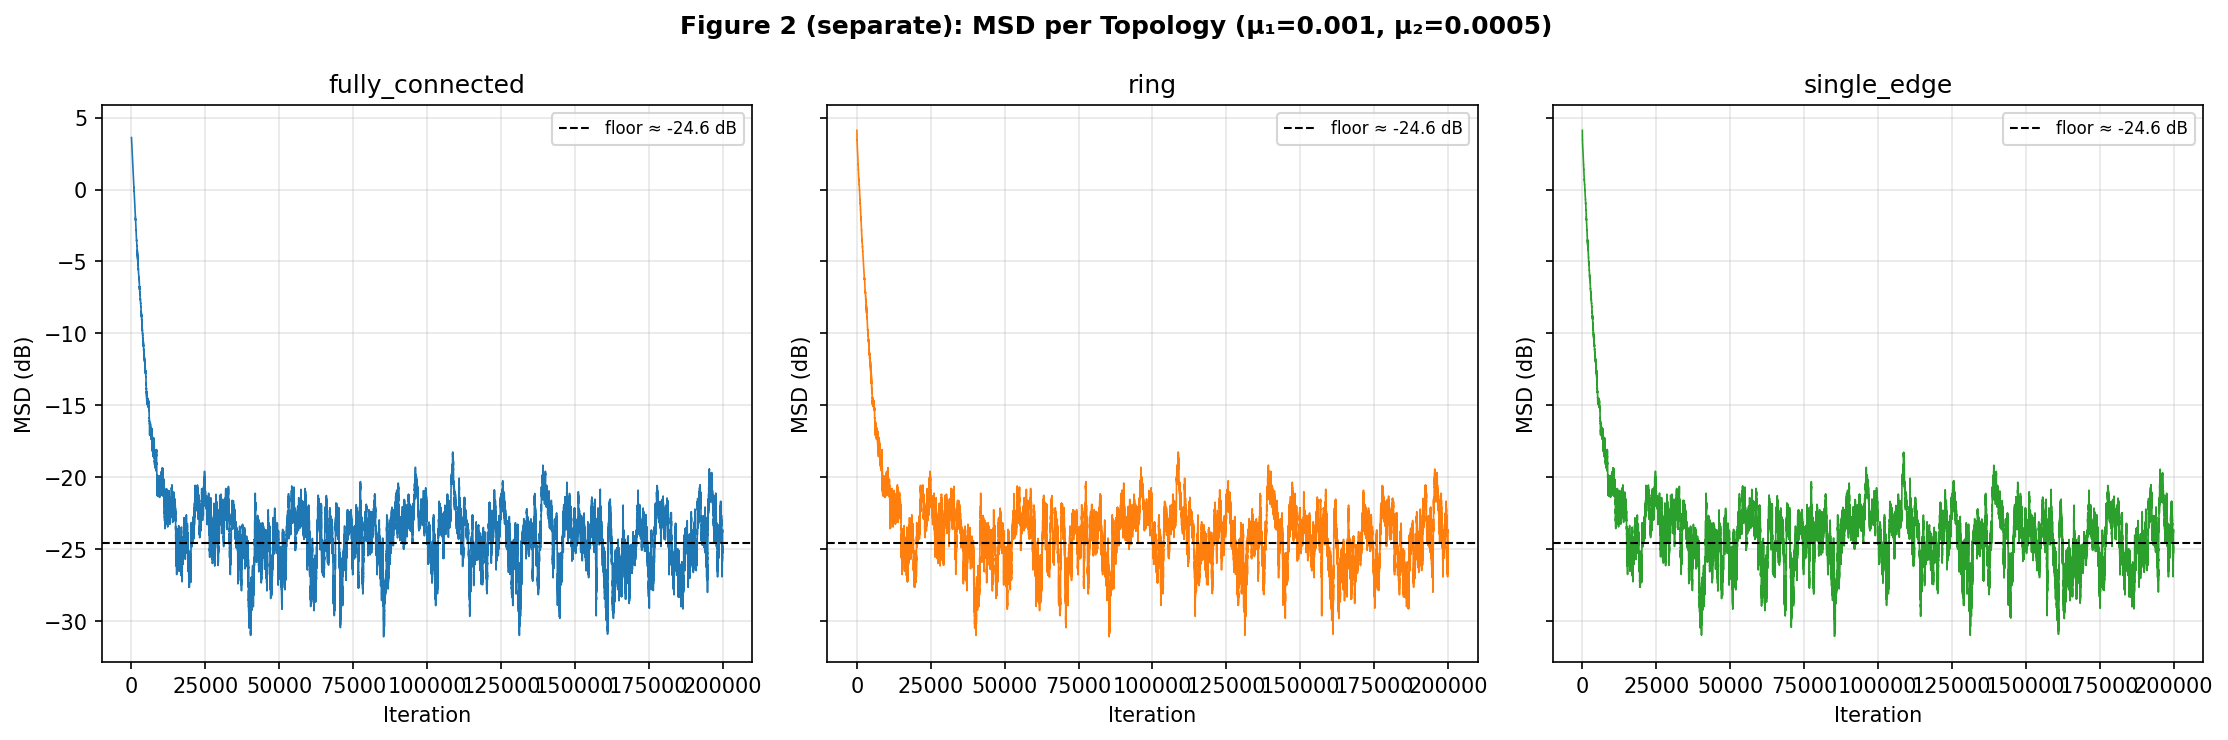
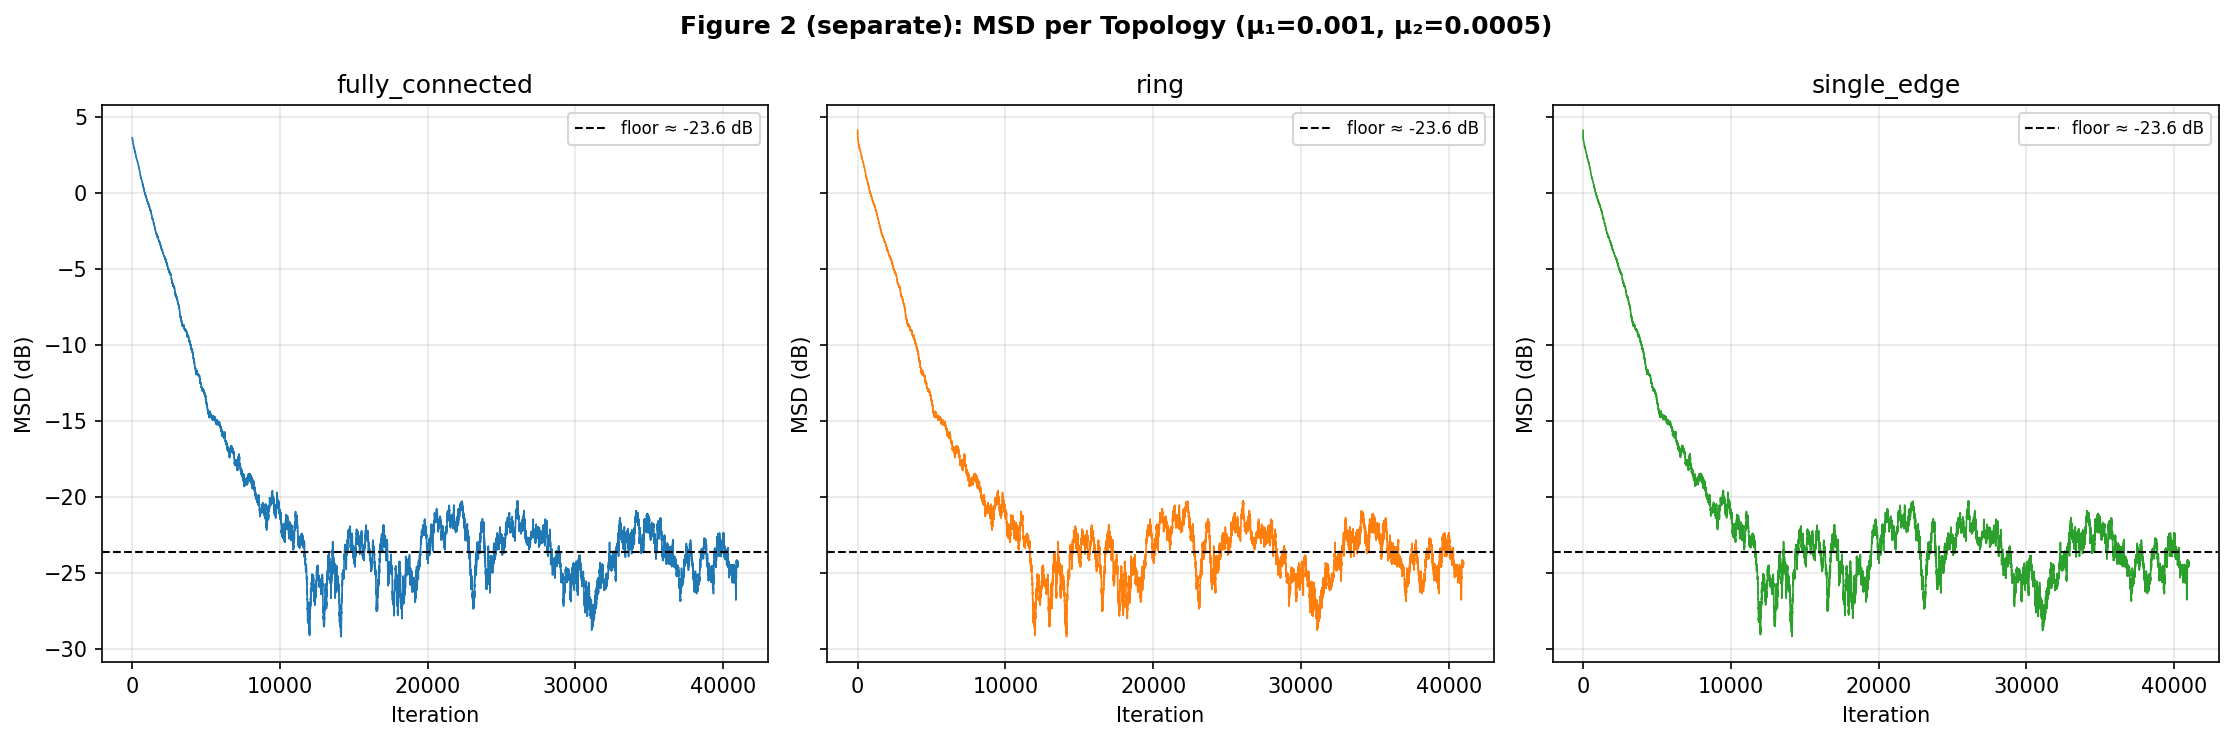
fixed figure 1

diff --git a/experiments/topology_test.py b/experiments/topology_test.py
@@ -3,6 +3,15 @@
 # Figure 2: MSD convergence for fully_connected vs ring vs single_edge.
 # Fixed step sizes (MU1, MU2 from config). One curve per topology.
 #
+# FINDING: in this regime the three curves coincide — the steady-state MSD floor
+# AND the convergence rate are topology-invariant. This is the expected result,
+# not a bug: (i) all three within-team graphs are connected, so they reach the
+# same full-cooperation steady state (identical noise averaging → identical floor);
+# (ii) the gradient timescale 1/μ (~10^3 iters) dwarfs the graph-mixing timescale
+# (~few iters), so convergence rate is set by μ, not by the graph. This directly
+# validates the paper's central claim: a SINGLE cross-team edge performs as well as
+# full connectivity. The figure is framed to make that invariance the result.
+#
 # Run: python -m experiments.topology_test  (from project root)
 
 import os, sys
@@ -16,12 +25,13 @@ import matplotlib.pyplot as plt
 from config import TOPOLOGIES, MU1, MU2, K1, K2, Z_STAR, ZK_STAR, R_U
 from network import build_within_team_matrix, build_cross_team_matrices, sanity_check
 from algorithm import run_cd
-from metrics import compute_msd, to_db
+from metrics import compute_msd, compute_within_team_disagreement, to_db
 from game import QuadraticGame
 
 
 def topology_test():
     results = {}
+    disagree = {}   # within-team disagreement per topology (linear scale)
 
     for topology in TOPOLOGIES:
         A1   = build_within_team_matrix(topology, K1)
@@ -40,24 +50,63 @@ def topology_test():
                          label=topology)
         msd_db = to_db(compute_msd(history, Z_STAR))
         results[topology] = msd_db
+        disagree[topology] = compute_within_team_disagreement(history)
 
         # Save raw data for external inspection
         os.makedirs(DATA, exist_ok=True)
         np.save(os.path.join(DATA, f"topology_{topology}_msd.npy"), msd_db)
         tail = msd_db[int(0.8 * len(msd_db)):]
         print(f"  steady-state floor: mean={tail.mean():.2f} dB  std={tail.std():.2f} dB")
+        print(f"  within-team disagreement @ iter 0/1/4 = "
+              f"{disagree[topology][0]:.4f} / {disagree[topology][1]:.4f} / {disagree[topology][4]:.4f}")
 
-    # --- Overlay plot (Figure 2a) ---
+    # Quantify the (in)variance across topologies so the result is defensible.
+    stack = np.vstack([results[t] for t in TOPOLOGIES])          # (3, T)
+    floors = {t: results[t][int(0.8 * len(results[t])):].mean() for t in TOPOLOGIES}
+    max_spread = float((stack.max(axis=0) - stack.min(axis=0)).max())
+    print("\n=== Topology comparison ===")
+    for t in TOPOLOGIES:
+        print(f"  {t:<16} steady-state floor = {floors[t]:6.2f} dB")
+    print(f"  max spread between topologies over all iterations = {max_spread:.2f} dB "
+          f"(noise-level → curves coincide)")
+
+    # --- Figure 2: 3 panels telling the complete, honest story ---
+    #   (a) MSD floor is topology-invariant   (b) MSD rate is topology-invariant
+    #   (c) within-team disagreement IS topology-dependent (the visible effect)
     os.makedirs(FIGS, exist_ok=True)
-    fig, ax = plt.subplots(figsize=(8, 5))
     colors = {"fully_connected": "tab:blue", "ring": "tab:orange", "single_edge": "tab:green"}
+    zoom_msd = 12000   # iterations for the MSD transient panel
+    zoom_dis = 12      # iterations for the disagreement transient panel
+
+    fig, (ax_full, ax_zoom, ax_dis) = plt.subplots(1, 3, figsize=(18, 5))
+    fig.suptitle("Figure 2: MSD-to-Nash is topology-invariant (a,b), but within-team "
+                 f"consensus speed is not (c)   —   μ₁={MU1}, μ₂={MU2}", fontweight="bold")
+
+    # (a) full run — MSD floors overlap; annotate the common floor
     for topology, msd_db in results.items():
-        ax.plot(msd_db, label=topology, color=colors[topology])
-    ax.set_xlabel("Iteration")
-    ax.set_ylabel("MSD (dB)")
-    ax.set_title(f"Figure 2: MSD vs Topology (μ₁={MU1}, μ₂={MU2})")
-    ax.legend()
-    ax.grid(True, alpha=0.3)
+        ax_full.plot(msd_db, label=topology, color=colors[topology], linewidth=0.9)
+    common_floor = float(np.mean(list(floors.values())))
+    ax_full.axhline(common_floor, color="black", linestyle="--", linewidth=1,
+                    label=f"common floor ≈ {common_floor:.1f} dB")
+    ax_full.set_title(f"(a) MSD full run — floors coincide (spread {max_spread:.2f} dB)")
+    ax_full.set_xlabel("Iteration"); ax_full.set_ylabel("MSD (dB)")
+    ax_full.legend(); ax_full.grid(True, alpha=0.3)
+
+    # (b) MSD transient zoom — convergence rate also coincides
+    for topology, msd_db in results.items():
+        ax_zoom.plot(msd_db[:zoom_msd], label=topology, color=colors[topology], linewidth=1.1)
+    ax_zoom.set_title(f"(b) MSD transient (first {zoom_msd:,}) — rate coincides")
+    ax_zoom.set_xlabel("Iteration"); ax_zoom.set_ylabel("MSD (dB)")
+    ax_zoom.legend(); ax_zoom.grid(True, alpha=0.3)
+
+    # (c) within-team disagreement transient — HERE topology is visible
+    for topology, d in disagree.items():
+        ax_dis.plot(range(zoom_dis), d[:zoom_dis], "o-", label=topology,
+                    color=colors[topology], linewidth=1.3, markersize=4)
+    ax_dis.set_title(f"(c) Within-team disagreement (first {zoom_dis}) — topology IS visible")
+    ax_dis.set_xlabel("Iteration"); ax_dis.set_ylabel(r"mean $\|x_k-\bar{x}\|^2$ (linear)")
+    ax_dis.legend(); ax_dis.grid(True, alpha=0.3)
+
     plt.tight_layout()
     plt.savefig(os.path.join(FIGS, "figure2.png"), dpi=150, bbox_inches="tight")
     plt.close()

diff --git a/metrics.py b/metrics.py
@@ -46,41 +46,54 @@ def compute_msd(history: dict, z_star: np.ndarray) -> np.ndarray:
     return (t1 + t2) / K
 
 
-def compute_fourth_order_moment(history: dict, z_star: np.ndarray) -> np.ndarray:
-    """Proxy for E[‖z̃_i‖⁴] from a single run — paper Theorem 1 eq 21b.
+def compute_within_team_disagreement(history: dict) -> np.ndarray:
+    """All-agent average within-team disagreement: how far each agent is from its
+    OWN team's mean estimate, mean_k ‖x_k − x̄‖² (+ same for y), averaged over agents.
 
-    Returns ‖z̃_i‖⁴ as a time series (shape (T,)).
-    In dB: 10*log10(‖z̃_i‖⁴) = 40*log10(‖z̃_i‖).
+    Unlike MSD-to-Nash (which is topology-invariant here because every connected
+    graph reaches the same steady state), this quantity IS topology-dependent:
+    a denser within-team graph reaches consensus faster and tighter. It is therefore
+    the right observable for *seeing* the effect of topology, especially in the
+    first few iterations (consensus-formation transient). Returns shape (T,), linear.
+    """
+    x = history["x"]                                  # (T, K1, M1)
+    y = history["y"]                                  # (T, K2, M2)
+    x_bar = x.mean(axis=1, keepdims=True)             # team-1 mean per iteration
+    y_bar = y.mean(axis=1, keepdims=True)             # team-2 mean per iteration
+    d1 = ((x - x_bar) ** 2).sum(axis=2).mean(axis=1)  # mean over team-1 agents
+    d2 = ((y - y_bar) ** 2).sum(axis=2).mean(axis=1)  # mean over team-2 agents
+    return (d1 * K1 + d2 * K2) / K                     # all-agent average
+
+
+def compute_fourth_order_moment(history: dict, z_star: np.ndarray) -> np.ndarray:
+    """Raw ‖z̃_i‖⁴ from a single run — proxy for E[‖z̃_i‖⁴] (paper eq 21b).
+
+    NOT smoothed: the paper's curves are visibly noisy (single-realisation stochastic
+    gradients), and that noisiness is part of the result. For a less noisy estimate,
+    average this over several independent seeds (Monte-Carlo) — do NOT moving-average
+    a single run, which distorts the shape. Returns shape (T,) in linear scale.
     """
     x_star = z_star[:M1]
     y_star = z_star[M1:]
     x_err = history["x"] - x_star    # (T, K1, M1)
     y_err = history["y"] - y_star    # (T, K2, M2)
     sq = (x_err ** 2).sum(axis=(1, 2)) + (y_err ** 2).sum(axis=(1, 2))   # (T,)
-    return sq ** 2                    # ‖z̃‖⁴
+    return sq ** 2                    # ‖z̃‖⁴, shape (T,)
 
 
 def compute_first_order_moment(history: dict, z_star: np.ndarray) -> np.ndarray:
-    """Proxy for ‖E[z̃_i]‖ from a single run — paper Theorem 1 eq 21c.
+    """Raw ‖z̃_i‖ from a single run — proxy for E[‖z̃_i‖] (paper eq 21c).
 
-    E[z̃_i] is estimated via cumulative running mean of the error vectors
-    (ergodic estimator).  The running mean cancels zero-mean noise, so this
-    converges to the bias and looks visually smoother than the 4th-order curve.
-
-    Returns ‖running_mean(z̃_i)‖ as a time series (shape (T,)).
+    NOT smoothed (see compute_fourth_order_moment). The instantaneous norm is the
+    paper's "first-order error moment"; it stays noisy at steady state by design.
+    Returns shape (T,) in linear scale.
     """
     x_star = z_star[:M1]
     y_star = z_star[M1:]
-
-    # Flatten all agent errors into one long vector per timestep: (T, K1*M1 + K2*M2)
-    x_err = (history["x"] - x_star).reshape(len(history["x"]), -1)   # (T, K1*M1)
-    y_err = (history["y"] - y_star).reshape(len(history["y"]), -1)   # (T, K2*M2)
-    z_err = np.concatenate([x_err, y_err], axis=1)                   # (T, K1*M1+K2*M2)
-
-    # Cumulative mean: mean_i = (1/(i+1)) * sum_{t=0}^{i} z_err[t]
-    running_mean = np.cumsum(z_err, axis=0) / np.arange(1, len(z_err) + 1)[:, None]
-
-    return np.linalg.norm(running_mean, axis=1)   # ‖E[z̃_i]‖ proxy, shape (T,)
+    x_err = history["x"] - x_star    # (T, K1, M1)
+    y_err = history["y"] - y_star    # (T, K2, M2)
+    sq = (x_err ** 2).sum(axis=(1, 2)) + (y_err ** 2).sum(axis=(1, 2))   # (T,)
+    return np.sqrt(sq)               # ‖z̃_i‖, shape (T,)
 
 
 def compute_error_moment(history: dict, z_star: np.ndarray, order: int) -> np.ndarray:

diff --git a/experiments/reproduce_figure1.py b/experiments/reproduce_figure1.py
@@ -17,8 +17,10 @@ from config import K1, K2, MU_SWEEP, Z_STAR, ZK_STAR, R_U
 from network import build_within_team_matrix, build_cross_team_matrices, sanity_check
 from algorithm import run_cd
 from game import QuadraticGame
-from metrics import (compute_msd_team1, compute_msd_team2, compute_msd_agent,
+from metrics import (compute_msd, compute_msd_team1, compute_msd_team2, compute_msd_agent,
                      compute_fourth_order_moment, compute_first_order_moment, to_db)
+# NOTE: compute_msd_team1/2 average over ALL agents in a team (the paper's
+# "team MSD" / theoretical performance level); compute_msd_agent is a single agent.
 
 
 def reproduce_figure1():
@@ -34,23 +36,27 @@ def reproduce_figure1():
         hist  = run_cd(game, {**mats, "A1": A1, "A2": A2}, mu1=mu1, mu2=mu2,
                        label=f"run {idx}/{len(MU_SWEEP)}")
 
+        msd_team1 = to_db(compute_msd_team1(hist, Z_STAR))        # team-average MSD (all T1 agents)
+        msd_team2 = to_db(compute_msd_team2(hist, Z_STAR))        # team-average MSD (all T2 agents)
         msd_a1t1 = to_db(compute_msd_agent(hist, Z_STAR, team=1, agent=0))
         msd_a1t2 = to_db(compute_msd_agent(hist, Z_STAR, team=2, agent=0))
-        err4 = to_db(compute_fourth_order_moment(hist, Z_STAR))   # ‖z̃‖⁴, paper eq 21b
-        err1 = to_db(compute_first_order_moment(hist, Z_STAR))   # ‖E[z̃]‖ via running mean, paper eq 21c
+        err4 = to_db(compute_fourth_order_moment(hist, Z_STAR))   # raw ‖z̃‖⁴, paper eq 21b
+        err1 = to_db(compute_first_order_moment(hist, Z_STAR))    # raw ‖z̃‖,  paper eq 21c
+        msd_all = to_db(compute_msd(hist, Z_STAR))                # all-agent MSD (for overlay)
 
         # Empirical floor: mean of last 20% as proxy for theoretical performance level.
         # Paper plots team MSD as a flat horizontal line (Theorem 2 prediction); we
-        # approximate that with the simulated steady-state average.
-        tail = slice(int(0.8 * len(msd_a1t1)), None)
-        floor_t1 = float(msd_a1t1[tail].mean())
-        floor_t2 = float(msd_a1t2[tail].mean())
+        # approximate that with the simulated steady-state average of the TEAM MSD
+        # (averaged over all agents in the team — not a single agent).
+        tail = slice(int(0.8 * len(msd_team1)), None)
+        floor_t1 = float(msd_team1[tail].mean())
+        floor_t2 = float(msd_team2[tail].mean())
         print(f"  {label}  →  floor(team1) ≈ {floor_t1:.2f} dB  |  floor(team2) ≈ {floor_t2:.2f} dB")
 
         results.append(dict(label=label, mu1=mu1, mu2=mu2,
                             floor_t1=floor_t1, floor_t2=floor_t2,
                             msd_a1t1=msd_a1t1, msd_a1t2=msd_a1t2,
-                            err1=err1, err4=err4))
+                            err1=err1, err4=err4, msd_all=msd_all))
 
     # --- Build 6-panel figure matching paper layout ---
     fig = plt.figure(figsize=(14, 12))
@@ -70,8 +76,9 @@ def reproduce_figure1():
         ax.grid(True, alpha=0.3)
 
     # Bottom 4: per-team floor (horizontal) + per-agent MSD (falling), one subplot per setting.
-    # Flat lines match paper Fig 1 layout: team MSD shown as the theoretical performance level
-    # (approximated here as the empirical steady-state floor from the last 20% of iterations).
+    # Flat lines match paper Fig 1 layout: the TEAM MSD (averaged over all agents in the team)
+    # shown as the theoretical performance level, approximated by its steady-state floor
+    # (mean of last 20% of iterations). The falling curves are individual agents.
     for i, r in enumerate(results):
         ax = fig.add_subplot(3, 2, 3 + i)
         ax.axhline(r["floor_t1"], color="black", linewidth=1.2,
@@ -92,8 +99,23 @@ def reproduce_figure1():
     os.makedirs(FIGS, exist_ok=True)
     save_path = os.path.join(FIGS, "figure1.png")
     plt.savefig(save_path, dpi=150, bbox_inches="tight")
-    plt.show()
+    plt.close(fig)
     print(f"Saved → {save_path}")
+
+    # --- Simple single-panel overlay: all-agent MSD vs iterations, one curve per μ ---
+    fig2, ax = plt.subplots(figsize=(10, 6))
+    for r in results:
+        ax.plot(r["msd_all"], label=r["label"], linewidth=0.8)
+    ax.set_title("Figure 1: MSD vs Iterations (paper reproduction)")
+    ax.set_xlabel("Iteration")
+    ax.set_ylabel("MSD (dB)")
+    ax.legend()
+    ax.grid(True, alpha=0.3)
+    plt.tight_layout()
+    overlay_path = os.path.join(FIGS, "figure1_overlay.png")
+    plt.savefig(overlay_path, dpi=150, bbox_inches="tight")
+    plt.close(fig2)
+    print(f"Saved → {overlay_path}")
 
 
 if __name__ == "__main__":

diff --git a/algorithm.py b/algorithm.py
@@ -3,8 +3,19 @@
 # CD algorithm: within-team ATC diffusion + cross-team inference, iterated.
 
 import os
+import sys
 import hashlib
 import numpy as np
+
+# Windows' default console encoding (cp1252) cannot encode the μ/≈/→ characters
+# used in our progress prints, which would crash run_cd with UnicodeEncodeError.
+# Force UTF-8 on stdout/stderr. This is the single import chokepoint for every
+# experiment, so doing it here covers the whole pipeline.
+for _stream in (sys.stdout, sys.stderr):
+    try:
+        _stream.reconfigure(encoding="utf-8")
+    except (AttributeError, ValueError):
+        pass
 
 from config import K1, K2, M1, M2, MU1, MU2, NUM_ITERS, RANDOM_SEED
 from gradients import stochastic_grad_x, stochastic_grad_y

diff --git a/config.py b/config.py
@@ -17,7 +17,7 @@ MU1 = 0.001
 MU2 = 0.0005
 
 # --- Simulation ---
-NUM_ITERS = 200_000
+NUM_ITERS = 41_000
 RANDOM_SEED = 42
 
 # --- Topologies (used by network.py and topology_test.py) ---